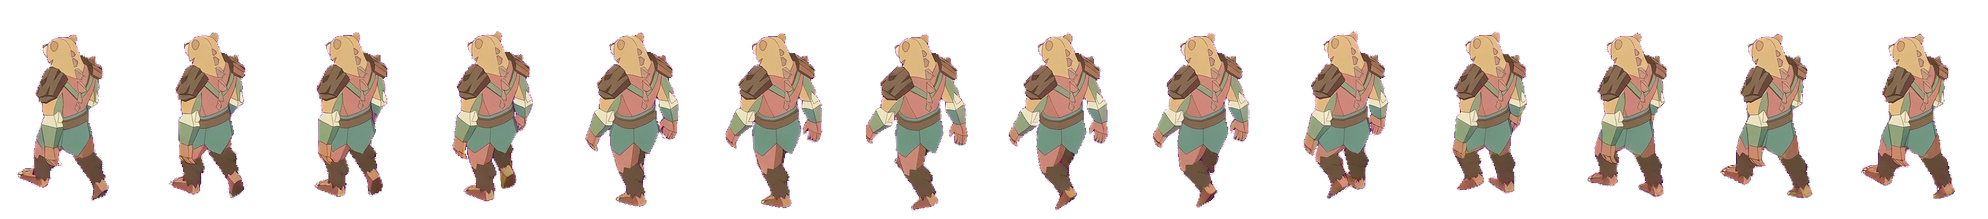
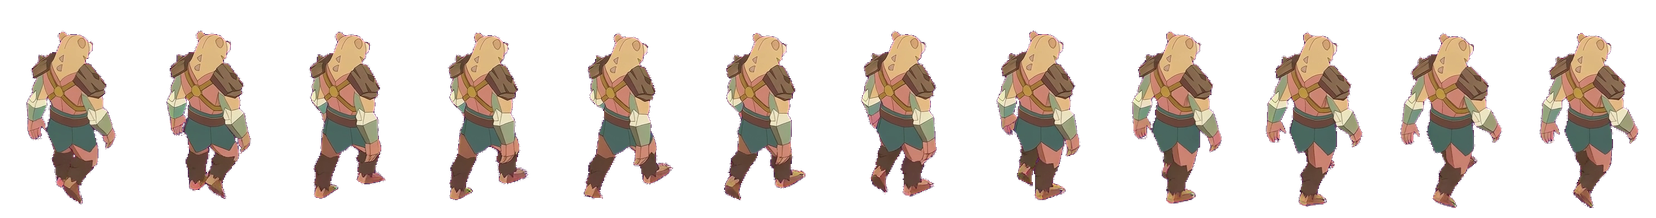
Fix beastfolk walk cycles loop continuity, Bramble Ursine facings, and standing still views

diff --git a/scripts/import-beastfolk-walks.ts b/scripts/import-beastfolk-walks.ts
@@ -69,7 +69,7 @@ function getCellBox(r: number, c: number) {
 }
 
 // Extract standing figures from a 4-way turnaround sheet
-async function extractStandingViews(sheetPath: string): Promise<Record<IsoWay, Buffer>> {
+async function extractStandingViews(sheetPath: string, ways: readonly IsoWay[] = ISO_WAYS): Promise<Record<IsoWay, Buffer>> {
   const im = sharp(sheetPath);
   const meta = await im.metadata();
   const w = meta.width ?? 1680;
@@ -80,7 +80,7 @@ async function extractStandingViews(sheetPath: string): Promise<Record<IsoWay, B
   const views: Record<string, Buffer> = {};
 
   for (let c = 0; c < 4; c++) {
-    const way = ISO_WAYS[c]!;
+    const way = ways[c]!;
     const crop = await sharp(sheetPath)
       .extract({ left: c * segW, top: 0, width: segW, height: h })
       .png()
@@ -91,6 +91,12 @@ async function extractStandingViews(sheetPath: string): Promise<Record<IsoWay, B
   }
   return views as Record<IsoWay, Buffer>;
 }
+
+// Bramble-Ursine turnaround positions 3 and 4 (cols 2 and 3) were generated as back-right and back-left
+const waysForChar = (charId: string): readonly IsoWay[] =>
+  charId === 'bramble-ursine'
+    ? ['front-left', 'front-right', 'back-right', 'back-left']
+    : ['front-left', 'front-right', 'back-left', 'back-right'];
 
 async function main() {
   console.log('=== Starting Beastfolk Walk Animation Import into co-mmo ===');
@@ -115,16 +121,18 @@ async function main() {
   const clientManifestPath = resolve(clientArtDir, 'manifest.json');
   const clientManifest = JSON.parse(await readFile(clientManifestPath, 'utf8').catch(() => '{}'));
 
-  // The seamless 14-frame walk cycle at 15 fps (0.93s period), skipping the static hold frames (1-11)
-  const frameIndices = [18, 20, 22, 24, 26, 28, 30, 32, 34, 36, 38, 40, 42, 44];
+  // Seamless 12-frame walk cycle spanning the complete 2 strides [21..48) at ~13.3 fps (0.9s period)
+  // Step sizes [2, 3, 2, 2, 2, 3, 2, 2, 2, 3, 2, 2] wrap smoothly into frame 48 (which mirrors frame 21)
+  const frameIndices = [21, 23, 26, 28, 30, 32, 35, 37, 39, 41, 44, 46];
   console.log(`Using ${frameIndices.length} frames per walk cycle: [${frameIndices.join(', ')}]`);
 
   for (const char of CHARACTERS) {
     console.log(`\nProcessing ${char.name} (${char.id})...`);
+    const ways = waysForChar(char.id);
 
     // 1. Process standing views
     console.log(`  Extracting standing views from ${char.standSheet}...`);
-    const standingViews = await extractStandingViews(char.standSheet);
+    const standingViews = await extractStandingViews(char.standSheet, ways);
     for (const [way, buf] of Object.entries(standingViews)) {
       const viewFile = resolve(VIEWS_DIR, `${char.id}-${way}.png`);
       await writeFile(viewFile, buf);
@@ -133,8 +141,7 @@ async function main() {
     // 2. Extract walk frames for all 4 isometric ways
     const directionsFrames: Buffer[][] = [];
 
-    for (let c = 0; c < ISO_WAYS.length; c++) {
-      const way = ISO_WAYS[c]!;
+    for (let c = 0; c < 4; c++) {
       const box = getCellBox(char.rowIndex, c);
       const wayFrames: Buffer[] = [];
 
@@ -156,8 +163,8 @@ async function main() {
     console.log(`  Normalized: frame size = ${normalized.frameWidth}x${normalized.frameHeight}, scale = ${normalized.scale.toFixed(3)}`);
 
     // 4. Save walk strips, individual frames, and update manifest
-    for (let c = 0; c < ISO_WAYS.length; c++) {
-      const way = ISO_WAYS[c]!;
+    for (let c = 0; c < 4; c++) {
+      const way = ways[c]!;
       const walkId = `${char.id}-walk-${way}`;
       const stripBuf = normalized.strips[c]!;
       const wayFrames = directionsFrames[c]!;
